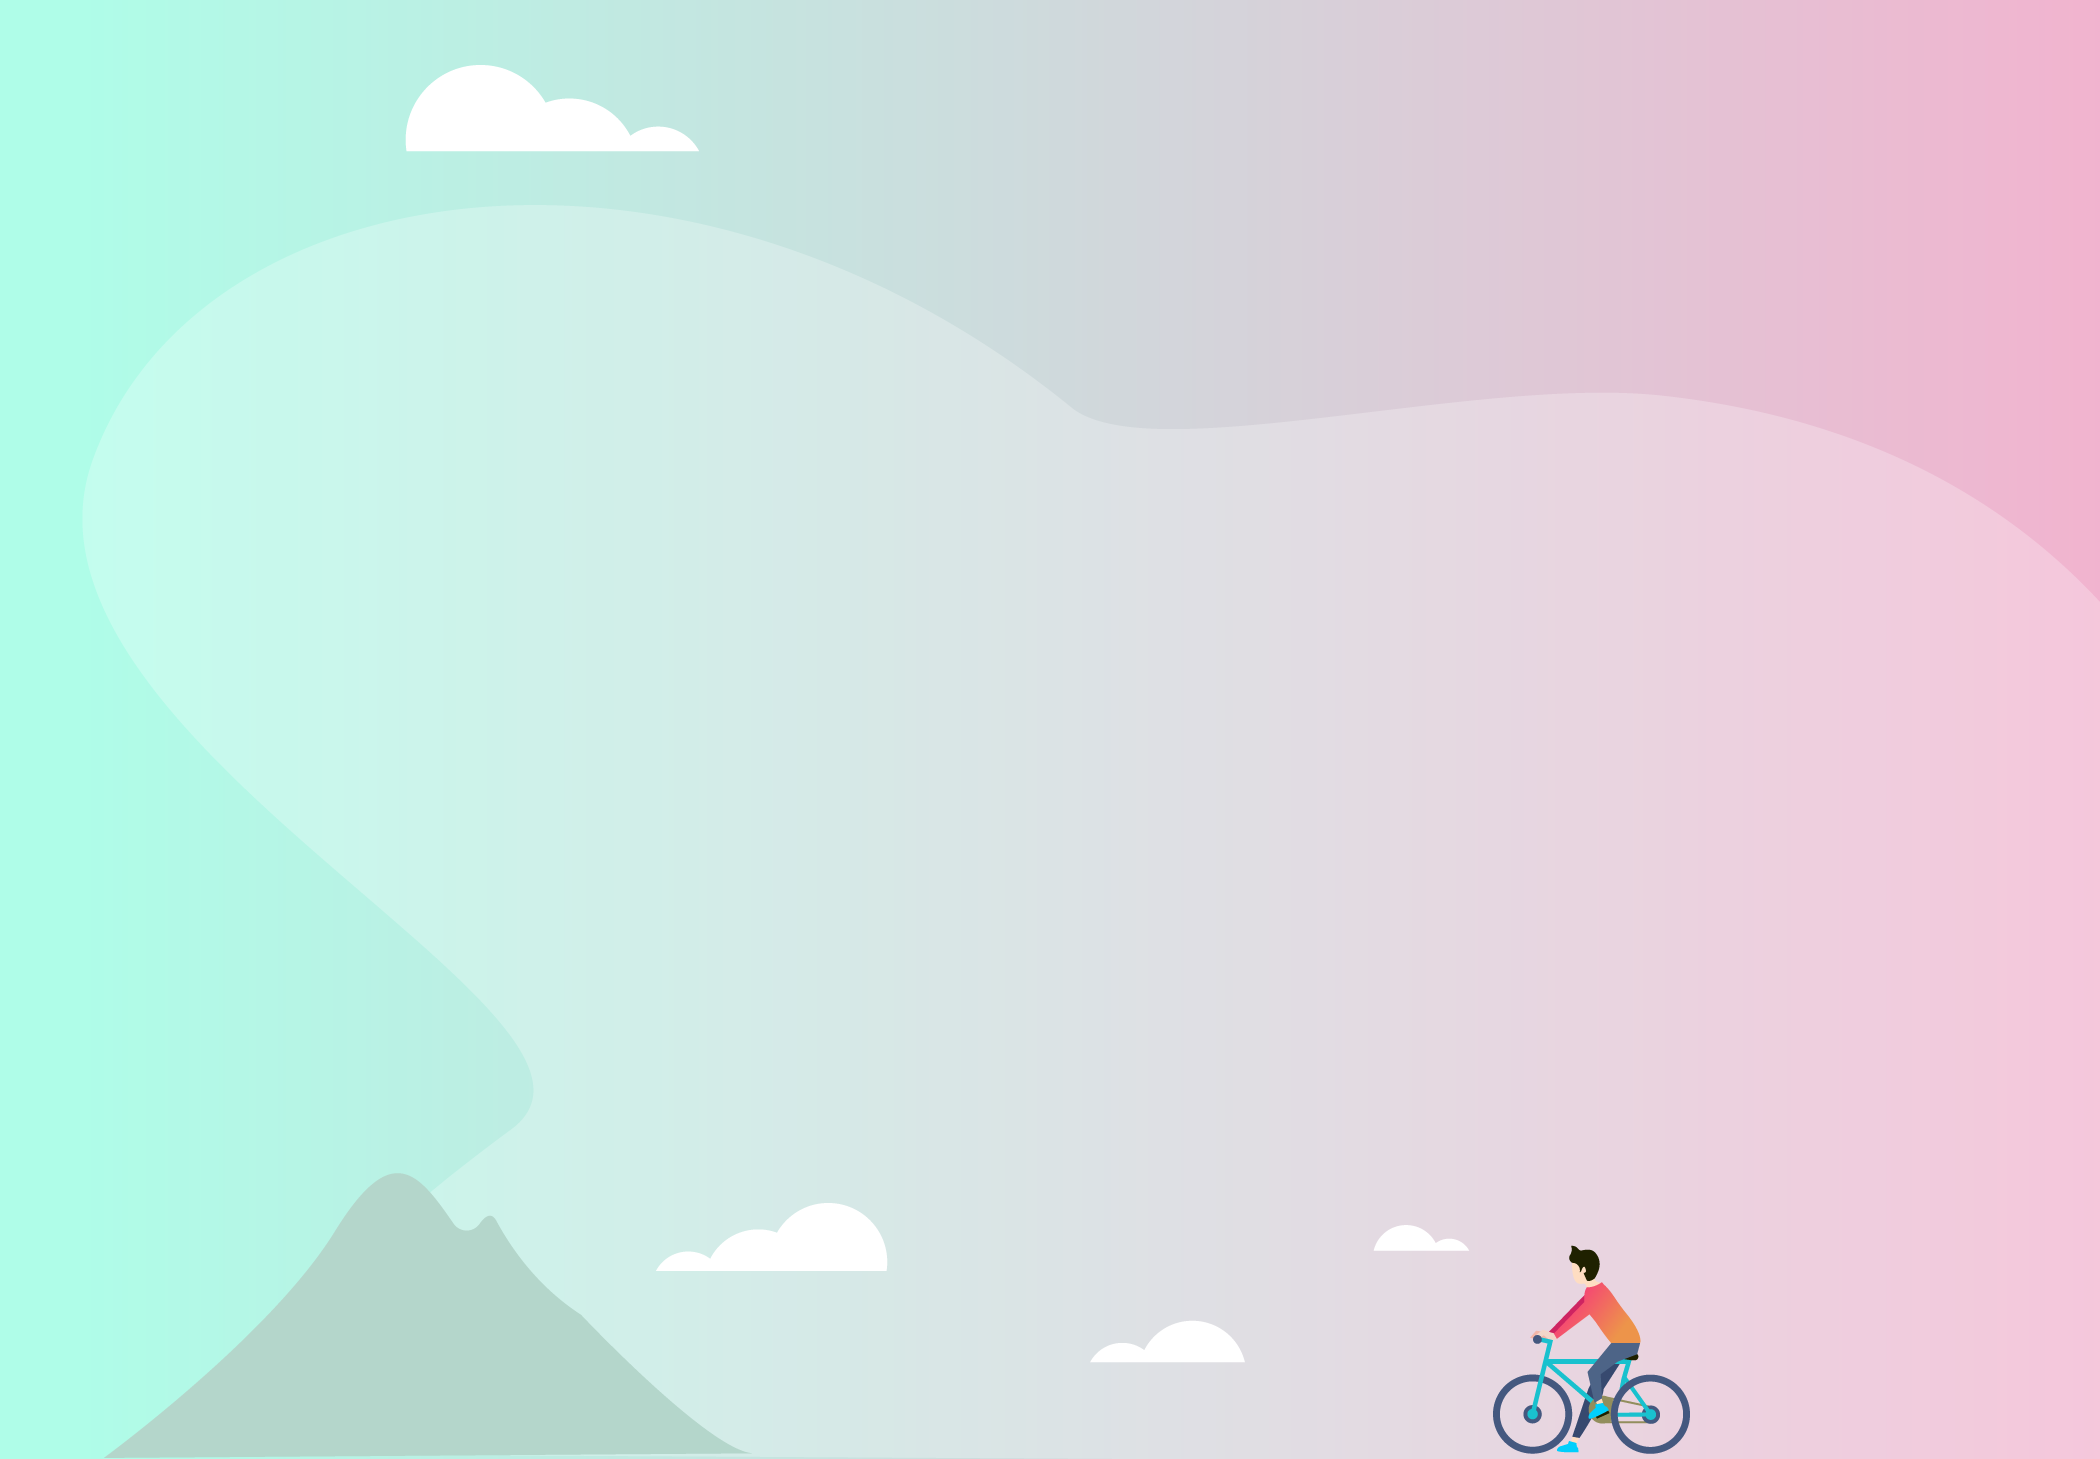
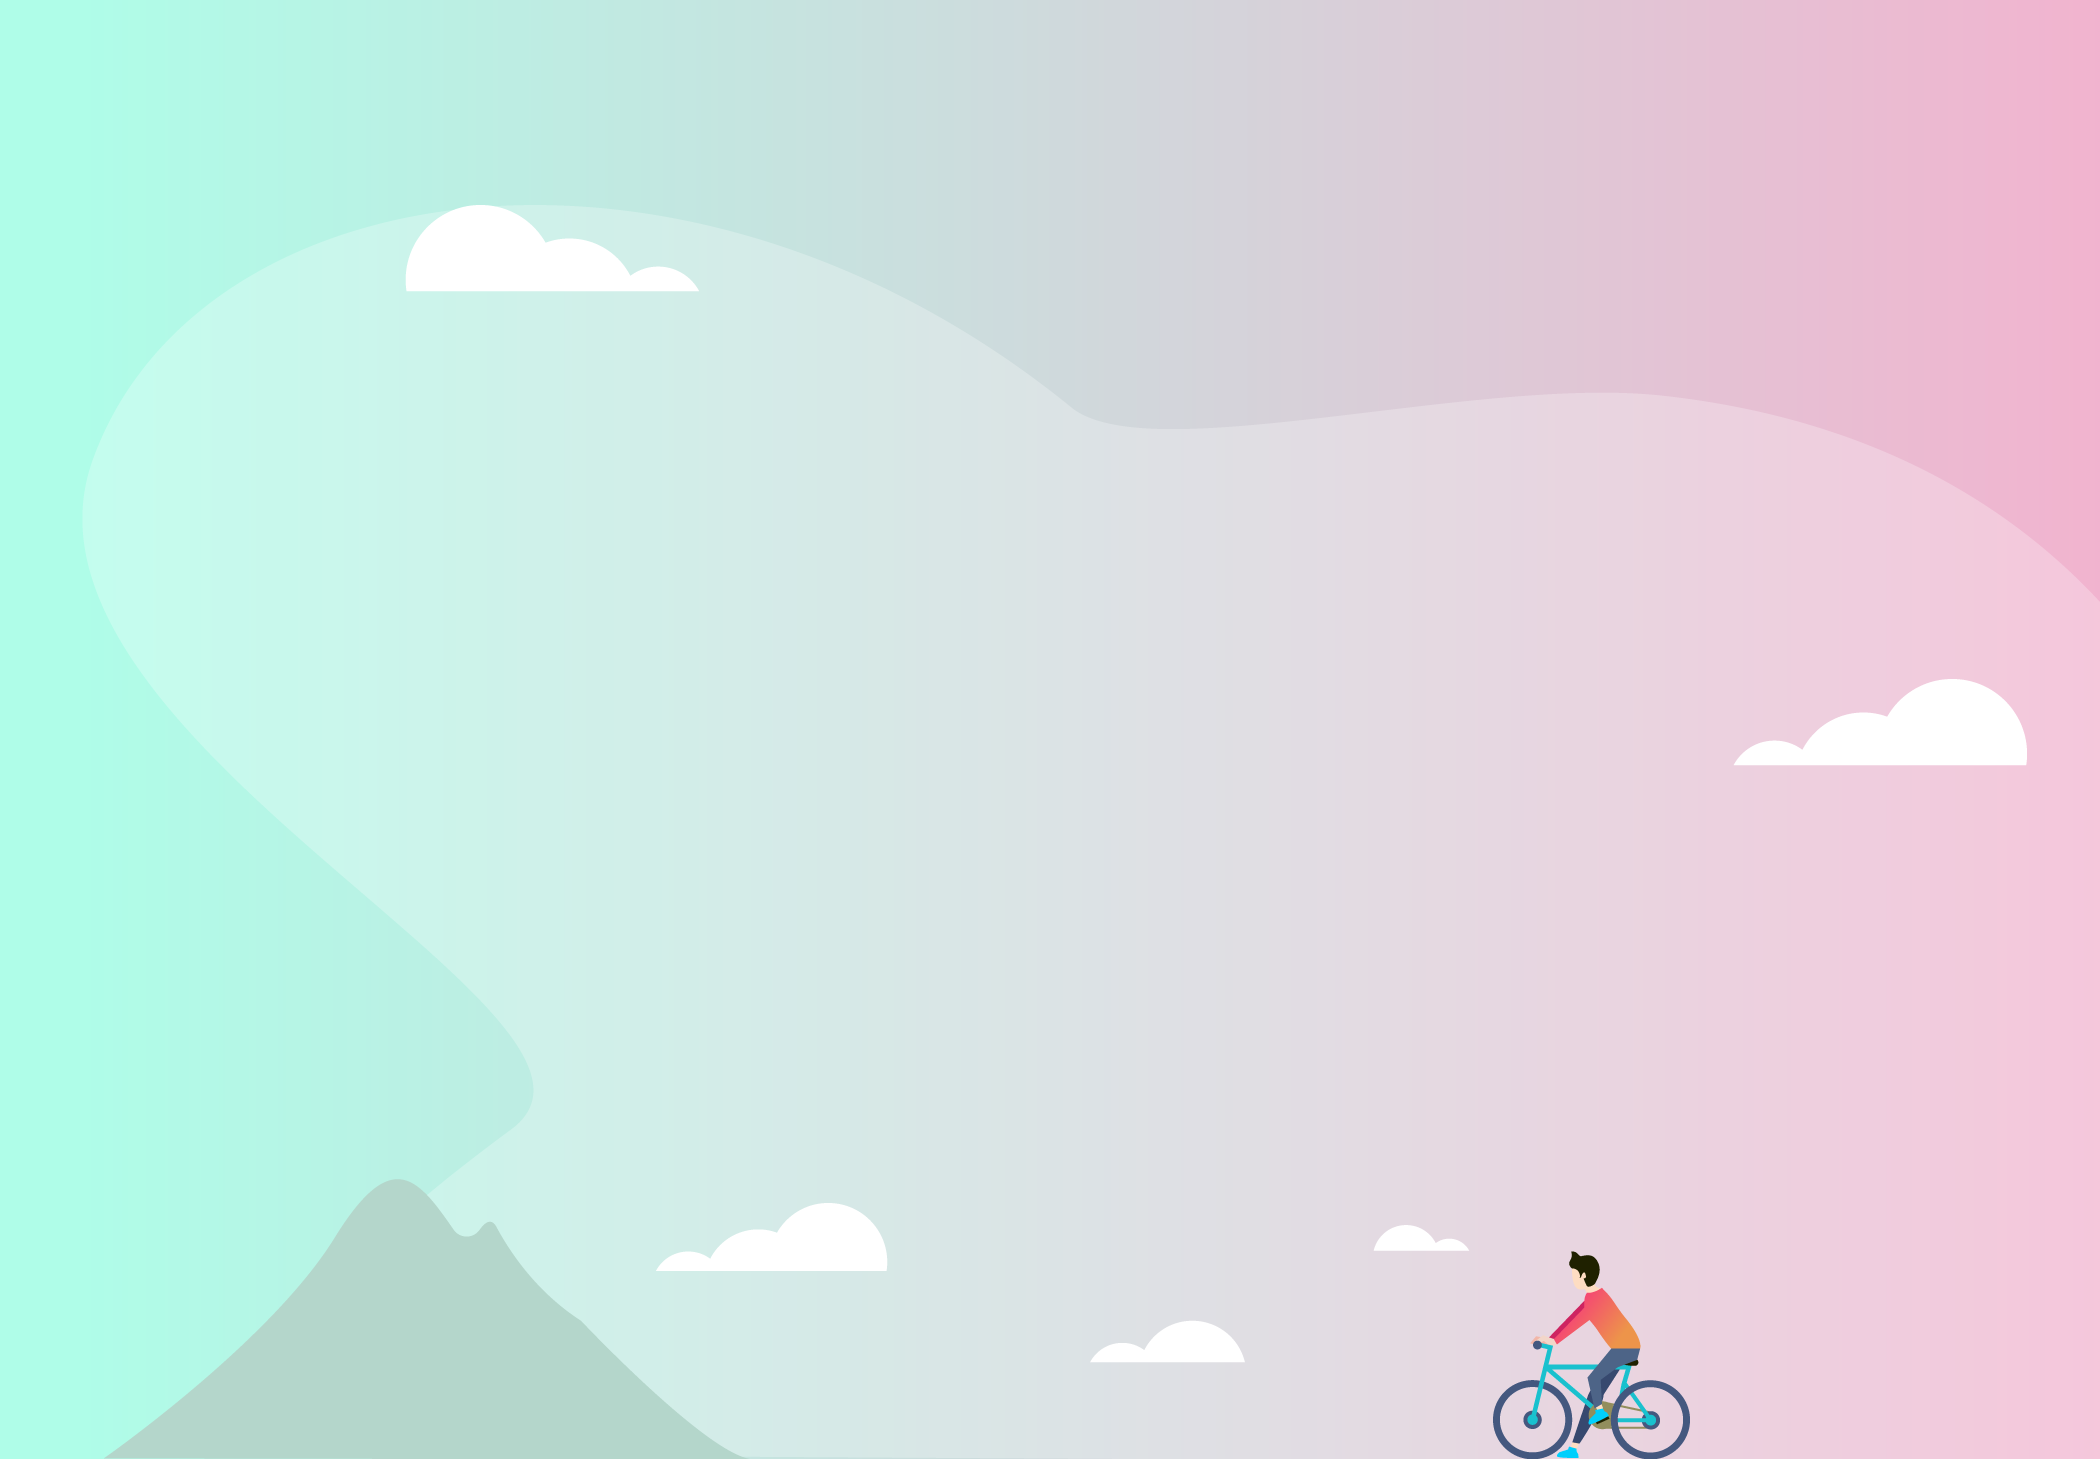
[feat]: otimize bg image of standings row, and css

diff --git a/src/components/sections/standings/style.js b/src/components/sections/standings/style.js
@@ -4,7 +4,7 @@ import bgSection from '../../../assets/images/bg_standings.png';
 export const style = {
     container: {
         backgroundImage: `url('${bgSection}')`,
-        backgroundPosition: 'left top',
+        backgroundPosition: 'center bottom',
         backgroundRepeat: 'no-repeat',
         backgroundSize: 'cover',
         padding: '100px 0px'
